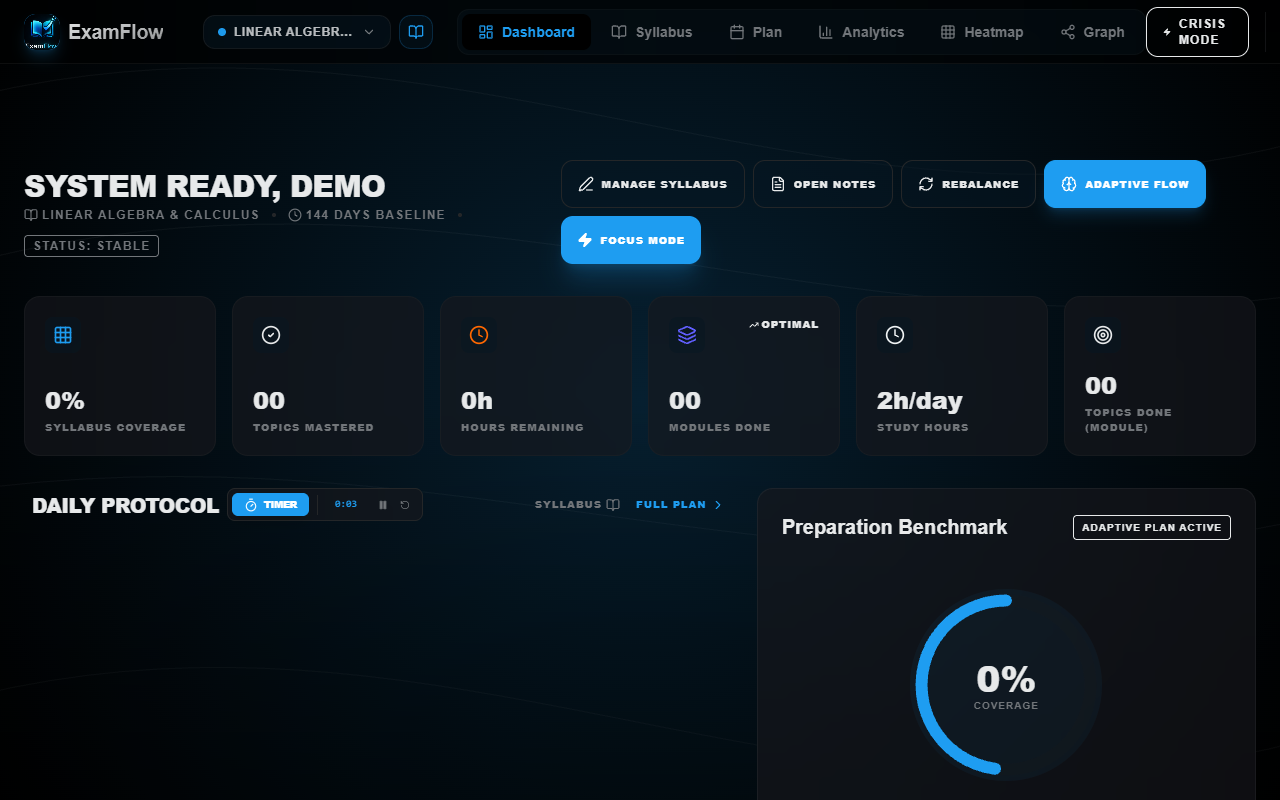
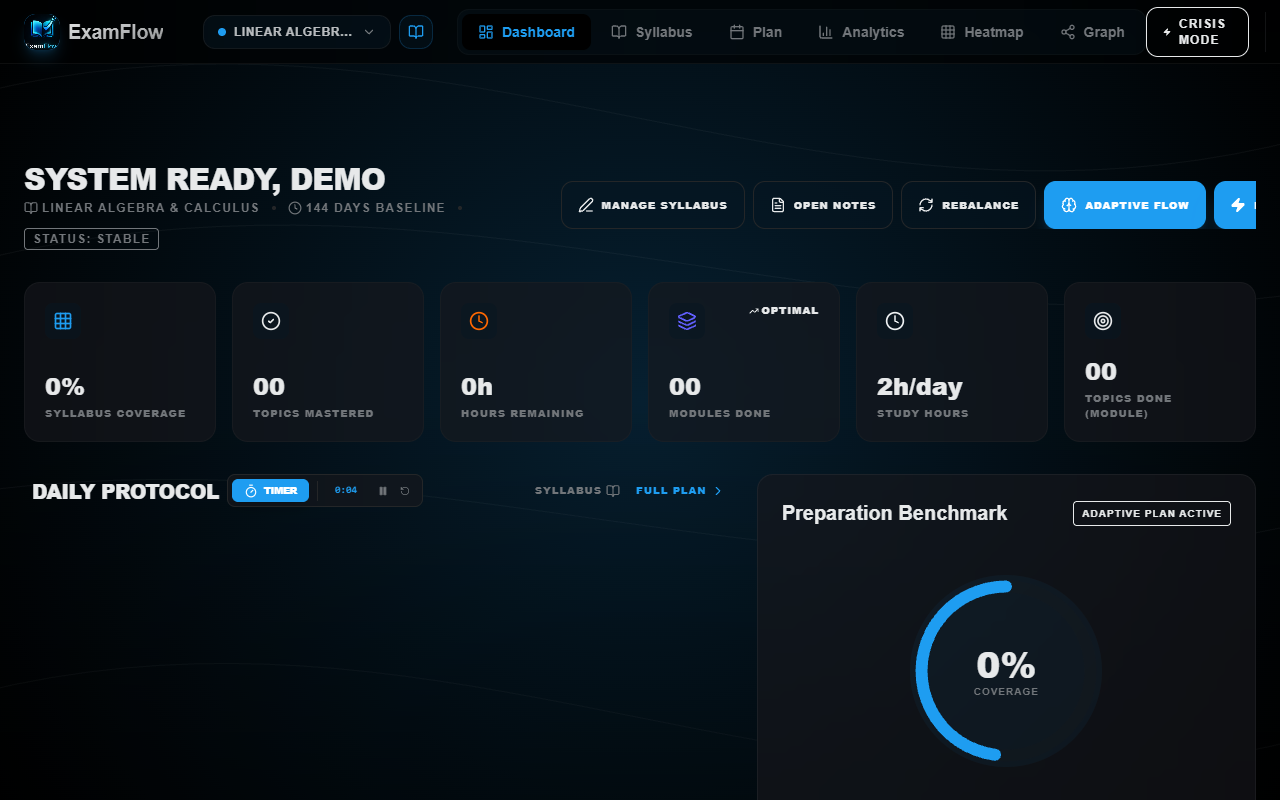
Fix success, warning, and danger colors globally and update Recharts SVG chart styling

diff --git a/src/pages/Analytics.tsx b/src/pages/Analytics.tsx
@@ -89,11 +89,12 @@ export default function Analytics() {
           <div className="h-48 sm:h-64">
             <ResponsiveContainer width="100%" height="100%">
               <LineChart data={performanceData}>
-                <CartesianGrid strokeDasharray="3 3" stroke="currentColor" className="text-border" opacity={0.1} vertical={false} />
-                <XAxis dataKey="day" stroke="currentColor" className="text-muted-foreground" fontSize={12} tickLine={false} axisLine={false} />
-                <YAxis stroke="currentColor" className="text-muted-foreground" fontSize={12} tickLine={false} axisLine={false} />
+                <CartesianGrid strokeDasharray="3 3" stroke="var(--border)" opacity={0.1} vertical={false} />
+                <XAxis dataKey="day" stroke="var(--muted-foreground)" fontSize={12} tickLine={false} axisLine={false} />
+                <YAxis stroke="var(--muted-foreground)" fontSize={12} tickLine={false} axisLine={false} />
                 <Tooltip 
                   contentStyle={{ backgroundColor: 'var(--card)', border: '1px solid var(--border)', borderRadius: '8px' }}
+                  labelStyle={{ color: 'var(--foreground)' }}
                   itemStyle={{ color: 'var(--primary)' }}
                 />
                 <Line 
@@ -116,11 +117,13 @@ export default function Analytics() {
           <div className="h-48 sm:h-64">
             <ResponsiveContainer width="100%" height="100%">
               <BarChart data={priorityData}>
-                <XAxis dataKey="priority" stroke="currentColor" className="text-muted-foreground" fontSize={12} tickLine={false} axisLine={false} />
-                <YAxis stroke="currentColor" className="text-muted-foreground" fontSize={12} tickLine={false} axisLine={false} />
+                <XAxis dataKey="priority" stroke="var(--muted-foreground)" fontSize={12} tickLine={false} axisLine={false} />
+                <YAxis stroke="var(--muted-foreground)" fontSize={12} tickLine={false} axisLine={false} />
                 <Tooltip 
                   cursor={{ fill: 'var(--accent)', opacity: 0.2 }}
                   contentStyle={{ backgroundColor: 'var(--card)', border: '1px solid var(--border)', borderRadius: '8px' }}
+                  labelStyle={{ color: 'var(--foreground)' }}
+                  itemStyle={{ color: 'var(--primary)' }}
                 />
                 <Bar dataKey="mastery" radius={[4, 4, 0, 0]}>
                   {priorityData.map((entry, index) => (
@@ -144,10 +147,12 @@ export default function Analytics() {
             <ResponsiveContainer width="100%" height="100%">
               <BarChart data={moduleData} layout="vertical">
                 <XAxis type="number" hide />
-                <YAxis dataKey="name" type="category" stroke="currentColor" className="text-muted-foreground" fontSize={12} tickLine={false} axisLine={false} width={100} />
+                <YAxis dataKey="name" type="category" stroke="var(--muted-foreground)" fontSize={12} tickLine={false} axisLine={false} width={100} />
                 <Tooltip 
                   cursor={{ fill: 'var(--accent)', opacity: 0.2 }}
                   contentStyle={{ backgroundColor: 'var(--card)', border: '1px solid var(--border)', borderRadius: '8px' }}
+                  labelStyle={{ color: 'var(--foreground)' }}
+                  itemStyle={{ color: 'var(--primary)' }}
                 />
                 <Bar dataKey="mastery" radius={[0, 4, 4, 0]}>
                   {moduleData.map((entry, index) => (

diff --git a/src/index.css b/src/index.css
@@ -43,6 +43,10 @@
   --destructive-foreground: #ffffff;
   --sidebar-accent-foreground: #1e9df1;
   --sidebar-primary-foreground: #ffffff;
+  --success: #00b87a;
+  --success-foreground: #ffffff;
+  --warning: #f7b928;
+  --warning-foreground: #ffffff;
 }
 
 .dark {
@@ -80,6 +84,10 @@
   --destructive-foreground: #ffffff;
   --sidebar-accent-foreground: #1c9cf0;
   --sidebar-primary-foreground: #ffffff;
+  --success: #00b87a;
+  --success-foreground: #ffffff;
+  --warning: #f7b928;
+  --warning-foreground: #ffffff;
 }
 
 @theme inline {
@@ -105,6 +113,12 @@
   --color-font-serif: var(--font-serif);
   --color-foreground: var(--foreground);
   --color-destructive: var(--destructive);
+  --color-danger: var(--destructive);
+  --color-danger-foreground: var(--destructive-foreground);
+  --color-success: var(--success);
+  --color-success-foreground: var(--success-foreground);
+  --color-warning: var(--warning);
+  --color-warning-foreground: var(--warning-foreground);
   --color-shadow-blur: var(--shadow-blur);
   --color-shadow-color: var(--shadow-color);
   --color-sidebar-ring: var(--sidebar-ring);

diff --git a/src/pages/Dashboard.tsx b/src/pages/Dashboard.tsx
@@ -349,7 +349,7 @@ export default function Dashboard() {
             )}
           </div>
         </div>
-        <div className="flex flex-wrap items-center gap-2 w-full lg:w-auto">
+        <div className="flex flex-nowrap items-center gap-2 w-full lg:w-auto overflow-x-auto no-scrollbar pb-2 lg:pb-0">
           <button 
             onClick={() => setIsSyllabusManagerOpen(true)}
             className="flex-1 sm:flex-none h-12 flex items-center justify-center gap-2 px-4 rounded-xl bg-accent/50 text-foreground text-[10px] font-black uppercase tracking-widest hover:bg-accent transition-all border border-border btn-touch"
